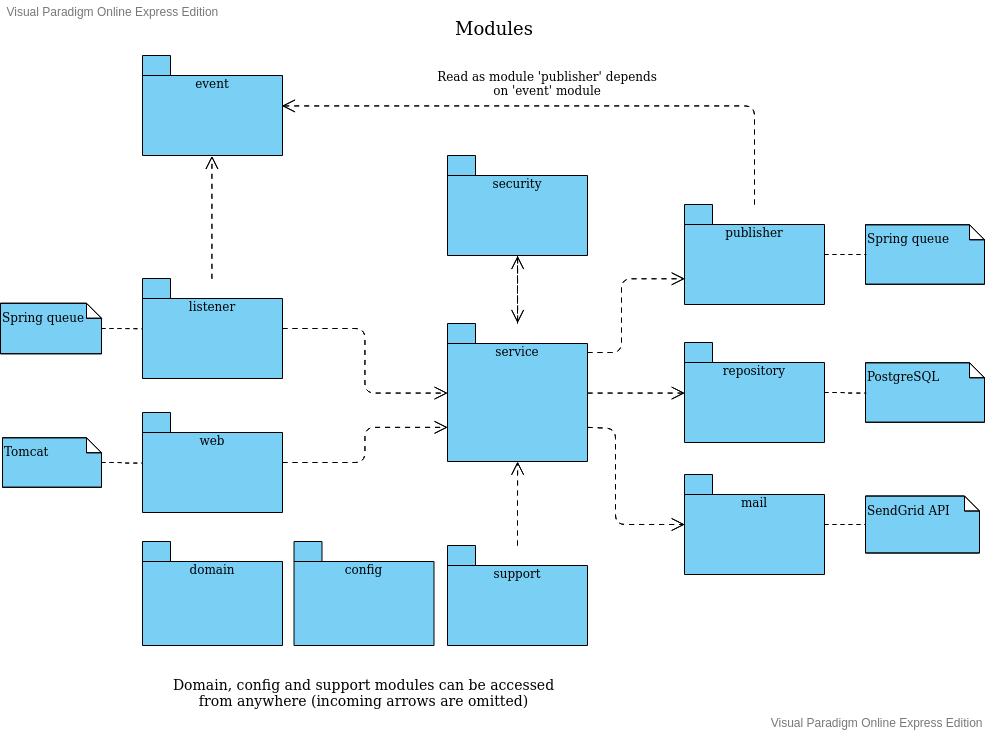
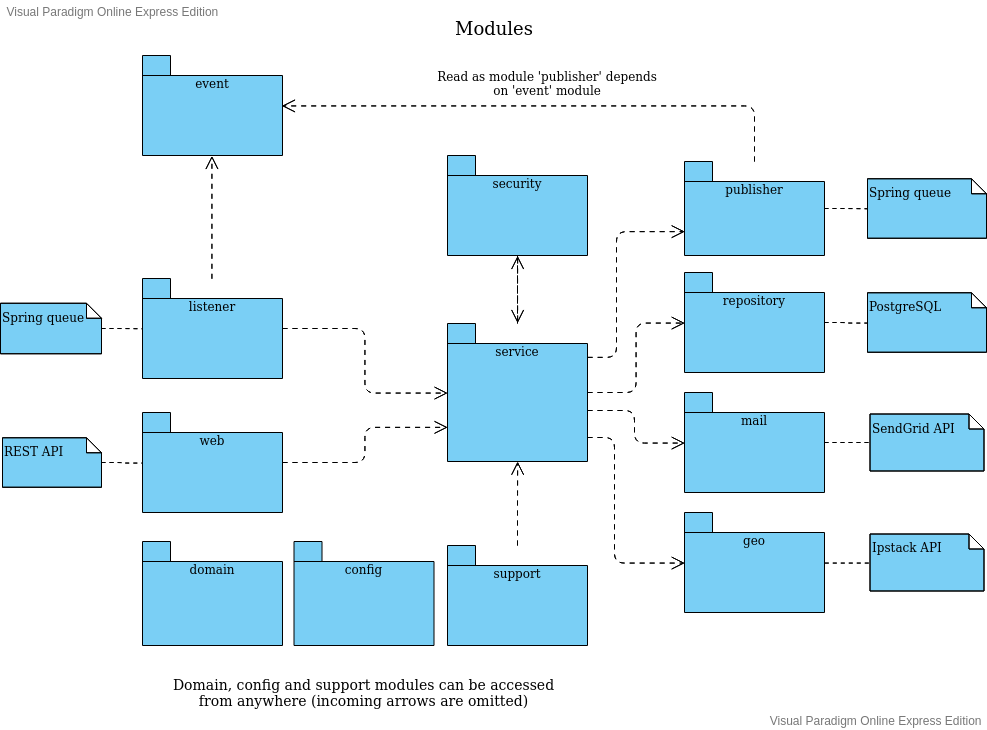
Use Ipstack API to fetch geo data

diff --git a/src/test/java/dev/shelenkov/portfolio/geo/IpstackGeoOperationsTests.java b/src/test/java/dev/shelenkov/portfolio/geo/IpstackGeoOperationsTests.java
@@ -1,0 +1,86 @@
+package dev.shelenkov.portfolio.geo;
+
+import dev.shelenkov.portfolio.geo.config.IpstackConfig;
+import dev.shelenkov.portfolio.geo.exception.GeoDataNotFoundException;
+import dev.shelenkov.portfolio.geo.exception.GeoProviderFailedRequestException;
+import dev.shelenkov.portfolio.geo.exception.GeoServiceException;
+import dev.shelenkov.portfolio.support.dto.CountryGeoData;
+import org.junit.jupiter.api.Test;
+import org.springframework.beans.factory.annotation.Autowired;
+import org.springframework.beans.factory.annotation.Value;
+import org.springframework.boot.context.properties.EnableConfigurationProperties;
+import org.springframework.boot.test.autoconfigure.web.client.RestClientTest;
+import org.springframework.core.io.Resource;
+import org.springframework.http.MediaType;
+import org.springframework.test.context.TestPropertySource;
+import org.springframework.test.web.client.MockRestServiceServer;
+
+import static org.assertj.core.api.Assertions.assertThat;
+import static org.assertj.core.api.Assertions.assertThatExceptionOfType;
+import static org.springframework.test.web.client.match.MockRestRequestMatchers.requestTo;
+import static org.springframework.test.web.client.response.MockRestResponseCreators.withServerError;
+import static org.springframework.test.web.client.response.MockRestResponseCreators.withSuccess;
+
+@RestClientTest(IpstackGeoOperations.class)
+@EnableConfigurationProperties(IpstackConfig.class)
+@TestPropertySource(properties = {
+    "ipstack.url=http://api.ipstack.com",
+    "ipstack.key=key"
+})
+public class IpstackGeoOperationsTests {
+
+    @Autowired
+    private IpstackGeoOperations operations;
+
+    @Autowired
+    private MockRestServiceServer server;
+
+    @Value("classpath:geo/success_response.json")
+    private Resource successResponse;
+
+    @Value("classpath:geo/error_response.json")
+    private Resource errorResponse;
+
+    @Value("classpath:geo/ip_not_found_response.json")
+    private Resource ipNotFoundResponse;
+
+    @Test
+    public void getGeoData_providerReturnsFullData_dtoWithNeededData() throws GeoServiceException {
+        server.expect(requestTo("http://api.ipstack.com/77.243.99.72?access_key=key&output=json"))
+            .andRespond(withSuccess(successResponse, MediaType.APPLICATION_JSON));
+
+        CountryGeoData result = operations.getGeoData("77.243.99.72");
+
+        assertThat(result).isEqualTo(new CountryGeoData("RU", "Russia"));
+    }
+
+    @Test
+    public void getGeoData_500ResponseFromProvider_GeoProviderFailedRequestException() {
+        server.expect(requestTo("http://api.ipstack.com/77.243.99.72?access_key=key&output=json"))
+            .andRespond(withServerError());
+
+        assertThatExceptionOfType(GeoProviderFailedRequestException.class).isThrownBy(() -> {
+            operations.getGeoData("77.243.99.72");
+        });
+    }
+
+    @Test
+    public void getGeoData_providerRefusedServeRequest_GeoProviderFailedRequestException() {
+        server.expect(requestTo("http://api.ipstack.com/77.243.99.72?access_key=key&output=json"))
+            .andRespond(withSuccess(errorResponse, MediaType.APPLICATION_JSON));
+
+        assertThatExceptionOfType(GeoProviderFailedRequestException.class).isThrownBy(() -> {
+            operations.getGeoData("77.243.99.72");
+        });
+    }
+
+    @Test
+    public void getGeoData_providerDoesNotKnowThisIp_GeoDataNotFoundException() {
+        server.expect(requestTo("http://api.ipstack.com/77.243.99.72?access_key=key&output=json"))
+            .andRespond(withSuccess(ipNotFoundResponse, MediaType.APPLICATION_JSON));
+
+        assertThatExceptionOfType(GeoDataNotFoundException.class).isThrownBy(() -> {
+            operations.getGeoData("77.243.99.72");
+        });
+    }
+}

diff --git a/src/main/java/dev/shelenkov/portfolio/geo/IpstackGeoOperations.java b/src/main/java/dev/shelenkov/portfolio/geo/IpstackGeoOperations.java
@@ -1,0 +1,75 @@
+package dev.shelenkov.portfolio.geo;
+
+import dev.shelenkov.portfolio.geo.config.IpstackConfig;
+import dev.shelenkov.portfolio.geo.exception.GeoDataNotFoundException;
+import dev.shelenkov.portfolio.geo.exception.GeoProviderFailedRequestException;
+import dev.shelenkov.portfolio.geo.exception.GeoServiceException;
+import dev.shelenkov.portfolio.geo.response.IpstackResponse;
+import dev.shelenkov.portfolio.support.dto.CountryGeoData;
+import lombok.SneakyThrows;
+import lombok.extern.slf4j.Slf4j;
+import org.apache.commons.lang3.Validate;
+import org.apache.http.client.utils.URIBuilder;
+import org.springframework.boot.web.client.RestTemplateBuilder;
+import org.springframework.http.ResponseEntity;
+import org.springframework.stereotype.Service;
+import org.springframework.web.client.RestClientException;
+import org.springframework.web.client.RestTemplate;
+
+import java.net.URI;
+import java.net.URISyntaxException;
+
+@Service
+@Slf4j
+public class IpstackGeoOperations implements GeoOperations {
+
+    private final RestTemplate restTemplate;
+    private final IpstackConfig ipstackConfig;
+
+    public IpstackGeoOperations(RestTemplateBuilder restTemplateBuilder,
+                                IpstackConfig ipstackConfig) {
+        this.restTemplate = restTemplateBuilder.build();
+        this.ipstackConfig = ipstackConfig;
+    }
+
+    @SuppressWarnings("FeatureEnvy")
+    @Override
+    public CountryGeoData getGeoData(String ip) throws GeoServiceException {
+        ResponseEntity<IpstackResponse> response;
+        try {
+            response = restTemplate.getForEntity(buildRequest(ip), IpstackResponse.class);
+        } catch (RestClientException e) {
+            log.error("Fetch geo data error", e);
+            throw new GeoProviderFailedRequestException("Fetch geo data error for IP: " + ip, e);
+        }
+
+        Validate.validState(response.getStatusCode().is2xxSuccessful());
+        Validate.validState(response.getBody() != null);
+
+        IpstackResponse body = response.getBody();
+
+        if (!body.isSuccess()) {
+            IpstackResponse.Error error = body.getError();
+            log.error("Geo provider refused to serve request. IP: {}, Error: {}", ip, error);
+            throw new GeoProviderFailedRequestException(String.format(
+                "Geo provider refused to serve request. IP: %s, Error code: %d",
+                ip, error.getCode()
+            ));
+        }
+        if (body.getCountryCode() == null || body.getCountryName() == null) {
+            log.info("Geo data object {} not filled for IP: {}", body, ip);
+            throw new GeoDataNotFoundException("Geo data not found for IP: " + ip);
+        }
+
+        return new CountryGeoData(body.getCountryCode(), body.getCountryName());
+    }
+
+    @SneakyThrows(URISyntaxException.class)
+    private URI buildRequest(String ip) {
+        return new URIBuilder(ipstackConfig.getUrl())
+            .setPath(ip)
+            .setParameter("access_key", ipstackConfig.getKey())
+            .setParameter("output", "json")
+            .build();
+    }
+}

diff --git a/src/test/java/dev/shelenkov/portfolio/web/controller/EmailWebViewControllerTests.java b/src/test/java/dev/shelenkov/portfolio/web/controller/EmailWebViewControllerTests.java
@@ -4,7 +4,6 @@ import dev.shelenkov.portfolio.support.ConfiguredWebMvcTest;
 import org.junit.jupiter.api.Test;
 import org.springframework.beans.factory.annotation.Autowired;
 import org.springframework.http.MediaType;
-import org.springframework.test.context.ActiveProfiles;
 import org.springframework.test.web.servlet.MockMvc;
 
 import java.nio.charset.StandardCharsets;
@@ -16,7 +15,6 @@ import static org.springframework.test.web.servlet.result.MockMvcResultMatchers.
 import static org.springframework.test.web.servlet.result.MockMvcResultMatchers.status;
 import static org.springframework.test.web.servlet.result.MockMvcResultMatchers.view;
 
-@ActiveProfiles("test")
 @ConfiguredWebMvcTest(EmailWebViewController.class)
 class EmailWebViewControllerTests {
 

diff --git a/src/main/java/dev/shelenkov/portfolio/geo/response/IpstackResponse.java b/src/main/java/dev/shelenkov/portfolio/geo/response/IpstackResponse.java
@@ -1,0 +1,30 @@
+package dev.shelenkov.portfolio.geo.response;
+
+import com.fasterxml.jackson.annotation.JsonProperty;
+import lombok.Data;
+
+@Data
+public class IpstackResponse {
+
+    private String ip;
+
+    @JsonProperty("country_code")
+    private String countryCode;
+
+    @JsonProperty("country_name")
+    private String countryName;
+
+    // Following fields are present in response only in case of error (see examples in tests)
+
+    private boolean success = true;
+
+    private IpstackResponse.Error error;
+
+    @Data
+    public static class Error {
+
+        private long code;
+        private String type;
+        private String info;
+    }
+}

diff --git a/src/main/java/dev/shelenkov/portfolio/geo/config/IpstackConfig.java b/src/main/java/dev/shelenkov/portfolio/geo/config/IpstackConfig.java
@@ -1,0 +1,22 @@
+package dev.shelenkov.portfolio.geo.config;
+
+import lombok.Getter;
+import lombok.RequiredArgsConstructor;
+import org.springframework.boot.context.properties.ConfigurationProperties;
+import org.springframework.boot.context.properties.ConstructorBinding;
+import org.springframework.validation.annotation.Validated;
+
+import javax.validation.constraints.NotBlank;
+
+@ConfigurationProperties("ipstack")
+@Getter
+@RequiredArgsConstructor
+@ConstructorBinding
+@Validated
+public class IpstackConfig {
+
+    @NotBlank
+    private final String key;
+    @NotBlank
+    private final String url;
+}

diff --git a/src/main/java/dev/shelenkov/portfolio/geo/GeoOperations.java b/src/main/java/dev/shelenkov/portfolio/geo/GeoOperations.java
@@ -1,0 +1,16 @@
+package dev.shelenkov.portfolio.geo;
+
+import dev.shelenkov.portfolio.geo.exception.GeoServiceException;
+import dev.shelenkov.portfolio.support.dto.CountryGeoData;
+
+public interface GeoOperations {
+
+    /**
+     * Fetches country data for the provided IP address.
+     *
+     * @param ip IPv4 address
+     * @return data of the country this IP belongs to
+     * @throws GeoServiceException if the data can not be retrieved
+     */
+    CountryGeoData getGeoData(String ip) throws GeoServiceException;
+}

diff --git a/src/main/java/dev/shelenkov/portfolio/geo/exception/GeoProviderFailedRequestException.java b/src/main/java/dev/shelenkov/portfolio/geo/exception/GeoProviderFailedRequestException.java
@@ -1,0 +1,15 @@
+package dev.shelenkov.portfolio.geo.exception;
+
+/**
+ * Exception thrown when request to geo provider fails.
+ */
+public class GeoProviderFailedRequestException extends GeoServiceException {
+
+    public GeoProviderFailedRequestException(String message) {
+        super(message);
+    }
+
+    public GeoProviderFailedRequestException(String message, Throwable cause) {
+        super(message, cause);
+    }
+}

diff --git a/src/main/java/dev/shelenkov/portfolio/geo/exception/GeoServiceException.java b/src/main/java/dev/shelenkov/portfolio/geo/exception/GeoServiceException.java
@@ -1,0 +1,15 @@
+package dev.shelenkov.portfolio.geo.exception;
+
+/**
+ * Base class for exceptions thrown by geo module.
+ */
+public class GeoServiceException extends Exception {
+
+    public GeoServiceException(String message) {
+        super(message);
+    }
+
+    public GeoServiceException(String message, Throwable cause) {
+        super(message, cause);
+    }
+}

diff --git a/src/main/java/dev/shelenkov/portfolio/geo/exception/GeoDataNotFoundException.java b/src/main/java/dev/shelenkov/portfolio/geo/exception/GeoDataNotFoundException.java
@@ -1,0 +1,11 @@
+package dev.shelenkov.portfolio.geo.exception;
+
+/**
+ * Exception thrown when provider can not find requested information.
+ */
+public class GeoDataNotFoundException extends GeoServiceException {
+
+    public GeoDataNotFoundException(String message) {
+        super(message);
+    }
+}

diff --git a/src/main/java/dev/shelenkov/portfolio/geo/package-info.java b/src/main/java/dev/shelenkov/portfolio/geo/package-info.java
@@ -1,0 +1,7 @@
+/**
+ * Classes for working with geographical data.
+ */
+@NonNullApi
+package dev.shelenkov.portfolio.geo;
+
+import org.springframework.lang.NonNullApi;

diff --git a/src/main/java/dev/shelenkov/portfolio/support/dto/CountryGeoData.java b/src/main/java/dev/shelenkov/portfolio/support/dto/CountryGeoData.java
@@ -1,0 +1,10 @@
+package dev.shelenkov.portfolio.support.dto;
+
+import lombok.Value;
+
+@Value
+public class CountryGeoData {
+
+    String code;
+    String name;
+}

diff --git a/src/main/java/dev/shelenkov/portfolio/geo/exception/package-info.java b/src/main/java/dev/shelenkov/portfolio/geo/exception/package-info.java
@@ -1,0 +1,4 @@
+/**
+ * Specific exceptions for working with geo module.
+ */
+package dev.shelenkov.portfolio.geo.exception;
